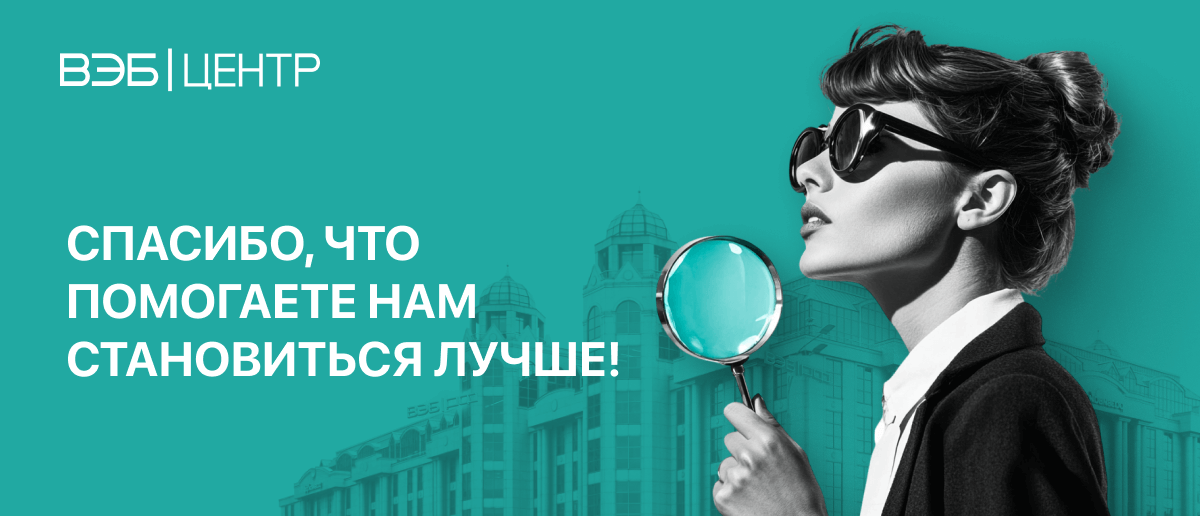
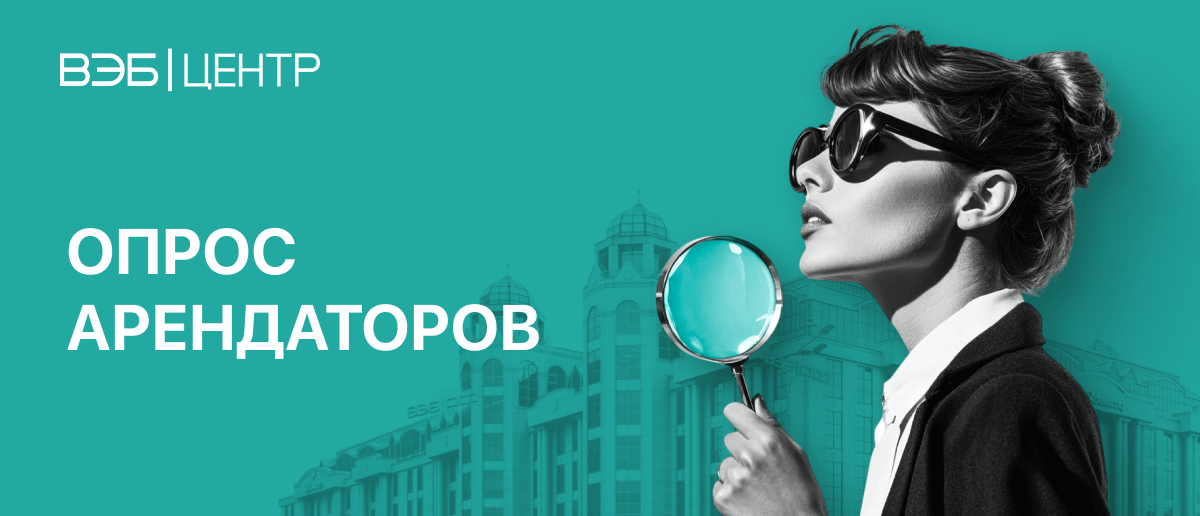
change veb-center-36

Changed region(s): [[0.0308, 0.4341, 0.5242, 0.7442]]

diff --git a/veb-center-36/Спасибо, что помогаете нам становиться лучше!.html b/veb-center-36/Спасибо, что помогаете нам становиться лучше!.html
@@ -102,7 +102,7 @@
                                         <tbody>
                                         <tr>
                                             <td style="width:600px;">
-                                                <img alt="Спасибо, что помогаете нам становиться лучше!" height="auto" src="https://cp.unisender.com/ru/user_file?resource=images&user_id=5608985&name=vc-36-hero.png" style="border:0;display:block;outline:none;text-decoration:none;height:auto;width:100%;font-size:13px;" width="600" />
+                                                <img alt="Опрос Арендаторов" height="auto" src="https://cp.unisender.com/ru/user_file?resource=images&user_id=5608985&name=vc-36-hero.png" style="border:0;display:block;outline:none;text-decoration:none;height:auto;width:100%;font-size:13px;" width="600" />
                                             </td>
                                         </tr>
                                         </tbody>
@@ -158,7 +158,7 @@
                                         <tr>
                                             <td>
                                                 <a href="https://event-vebcenter.ru/form-2" target="_blank">
-                                                    <img alt="Нажмите здесь, чтобы пройти опрос арендаторов" height="auto" src="https://cp.unisender.com/ru/user_file?resource=images&user_id=5608985&name=vc-36-button-1.png" style="border:0;display:block;outline:none;text-decoration:none;height:auto;max-width:540px;width:100%;font-size:13px;" width="540" />
+                                                    <img alt="Нажмите здесь, чтобы пройти опрос" height="auto" src="https://cp.unisender.com/ru/user_file?resource=images&user_id=5608985&name=vc-36-button-1.png" style="border:0;display:block;outline:none;text-decoration:none;height:auto;max-width:540px;width:100%;font-size:13px;" width="540" />
                                                 </a>
                                             </td>
                                         </tr>
